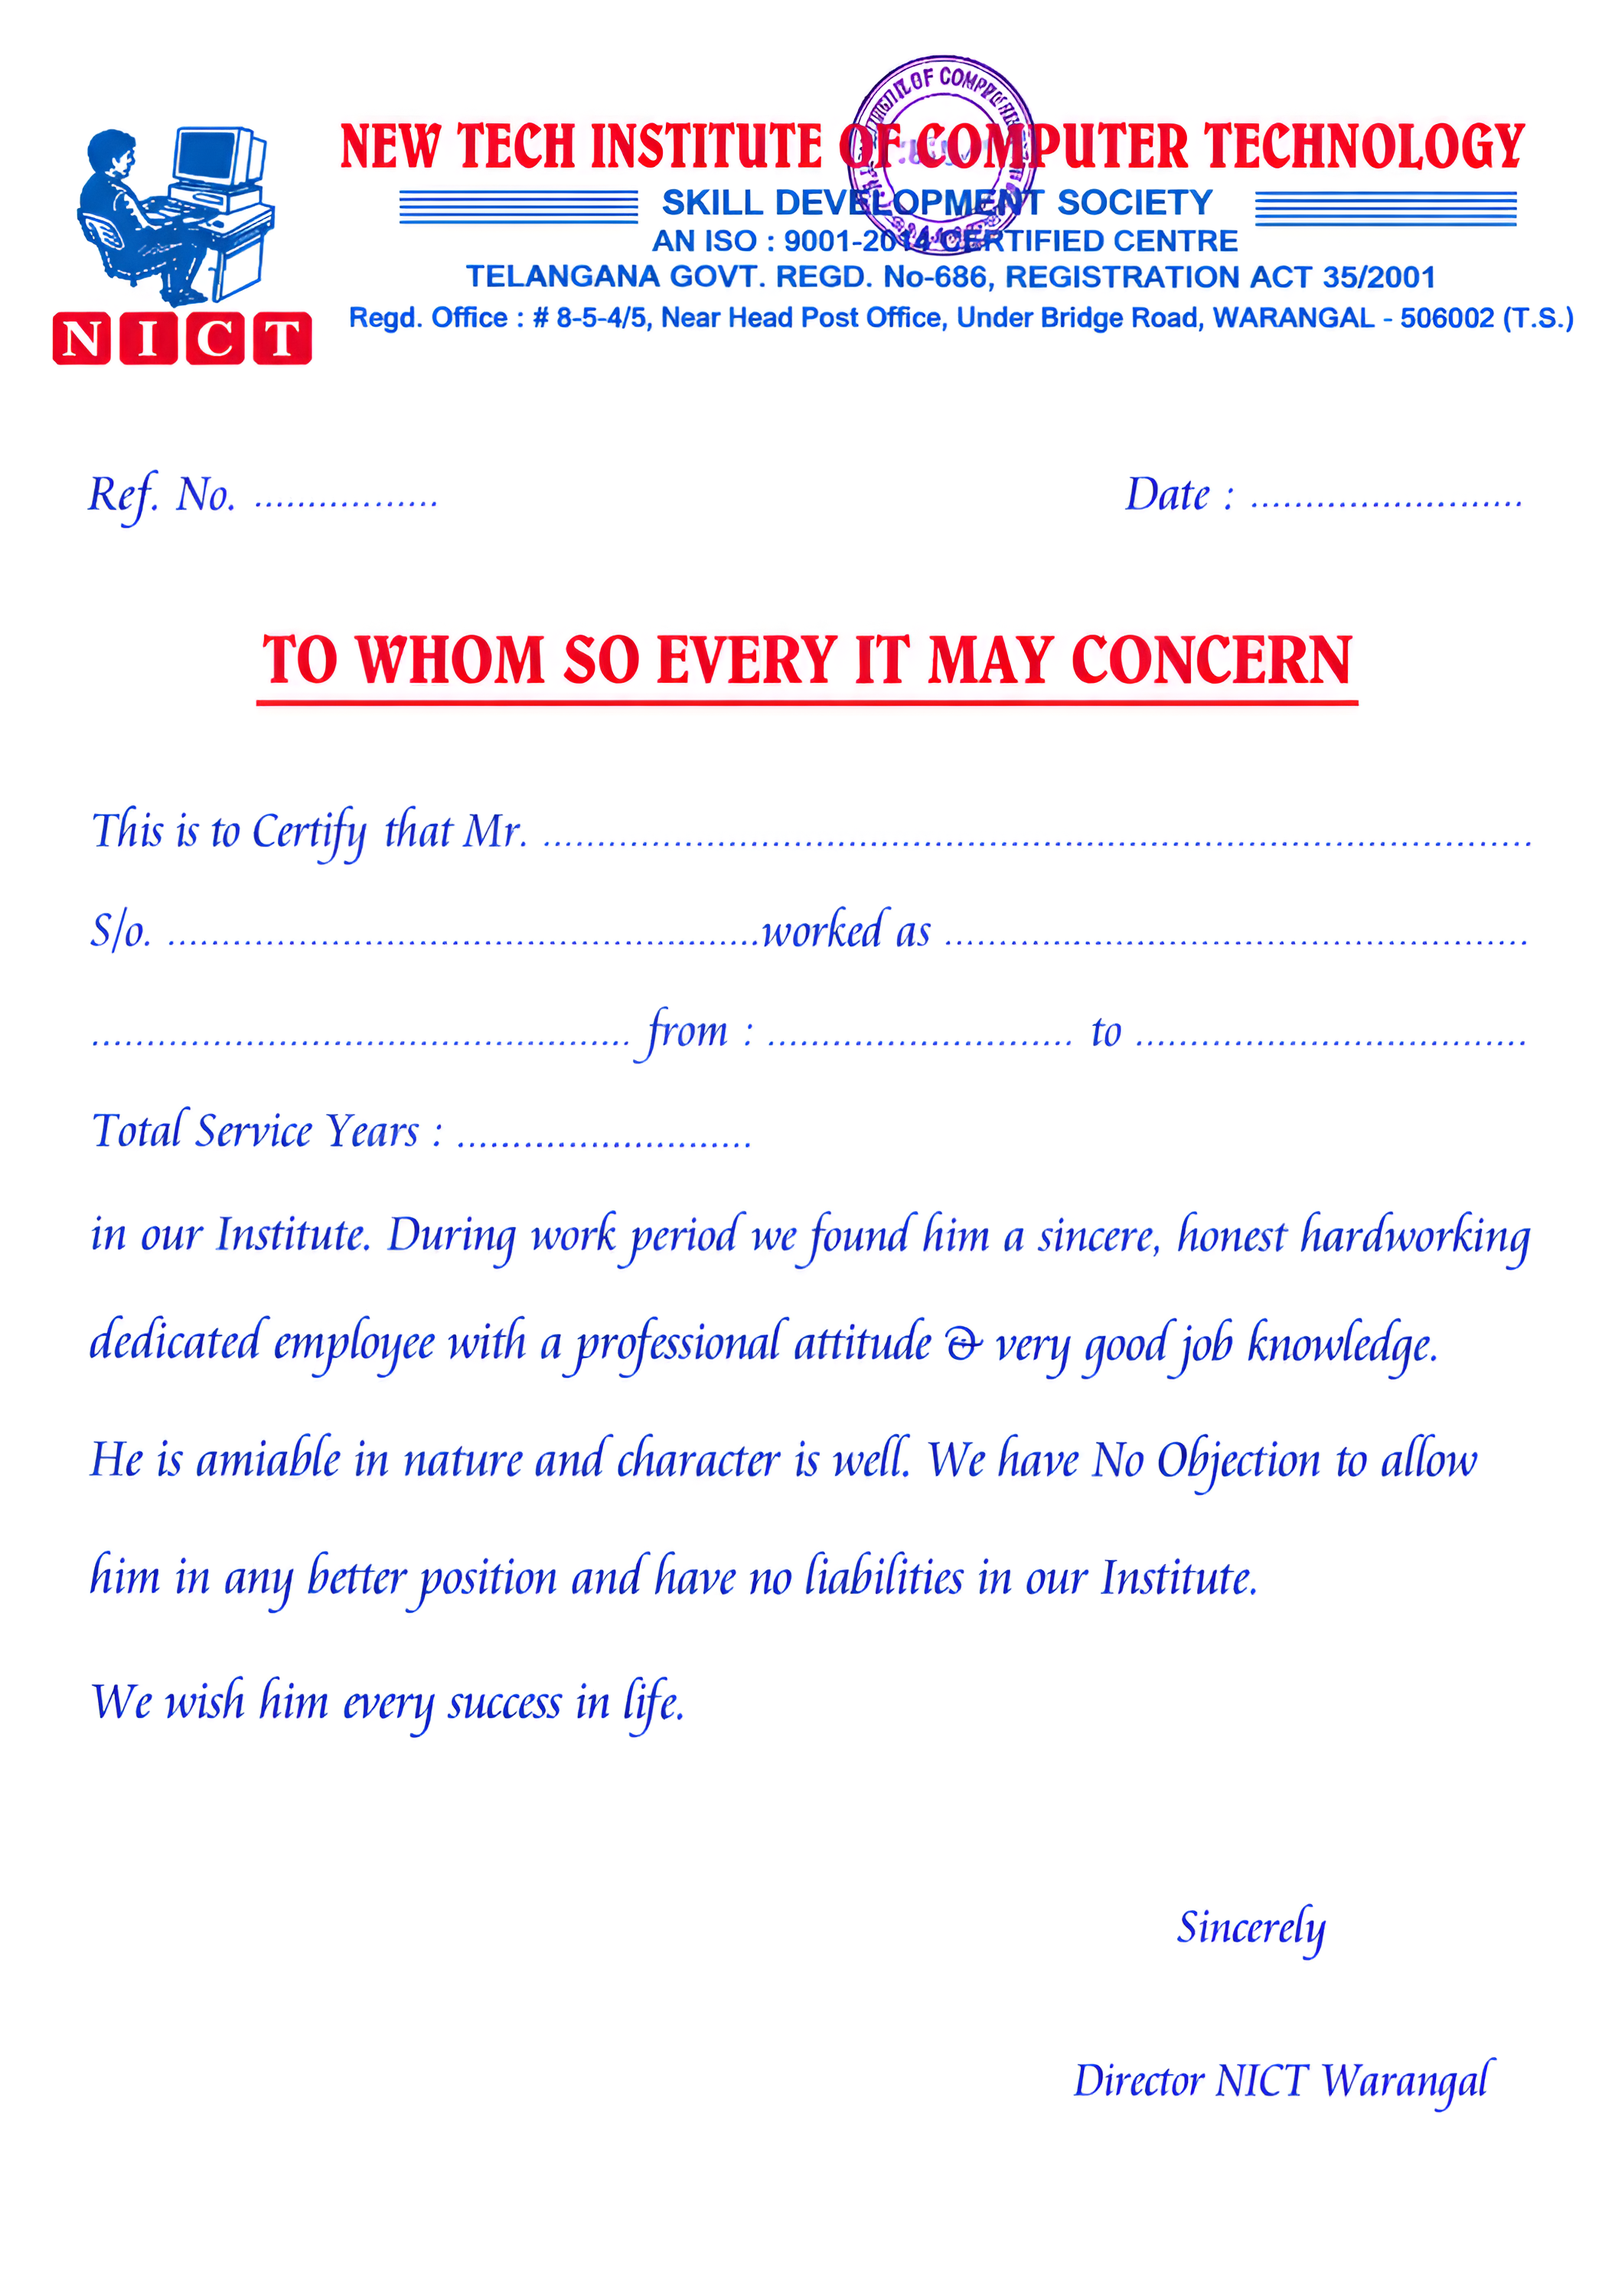
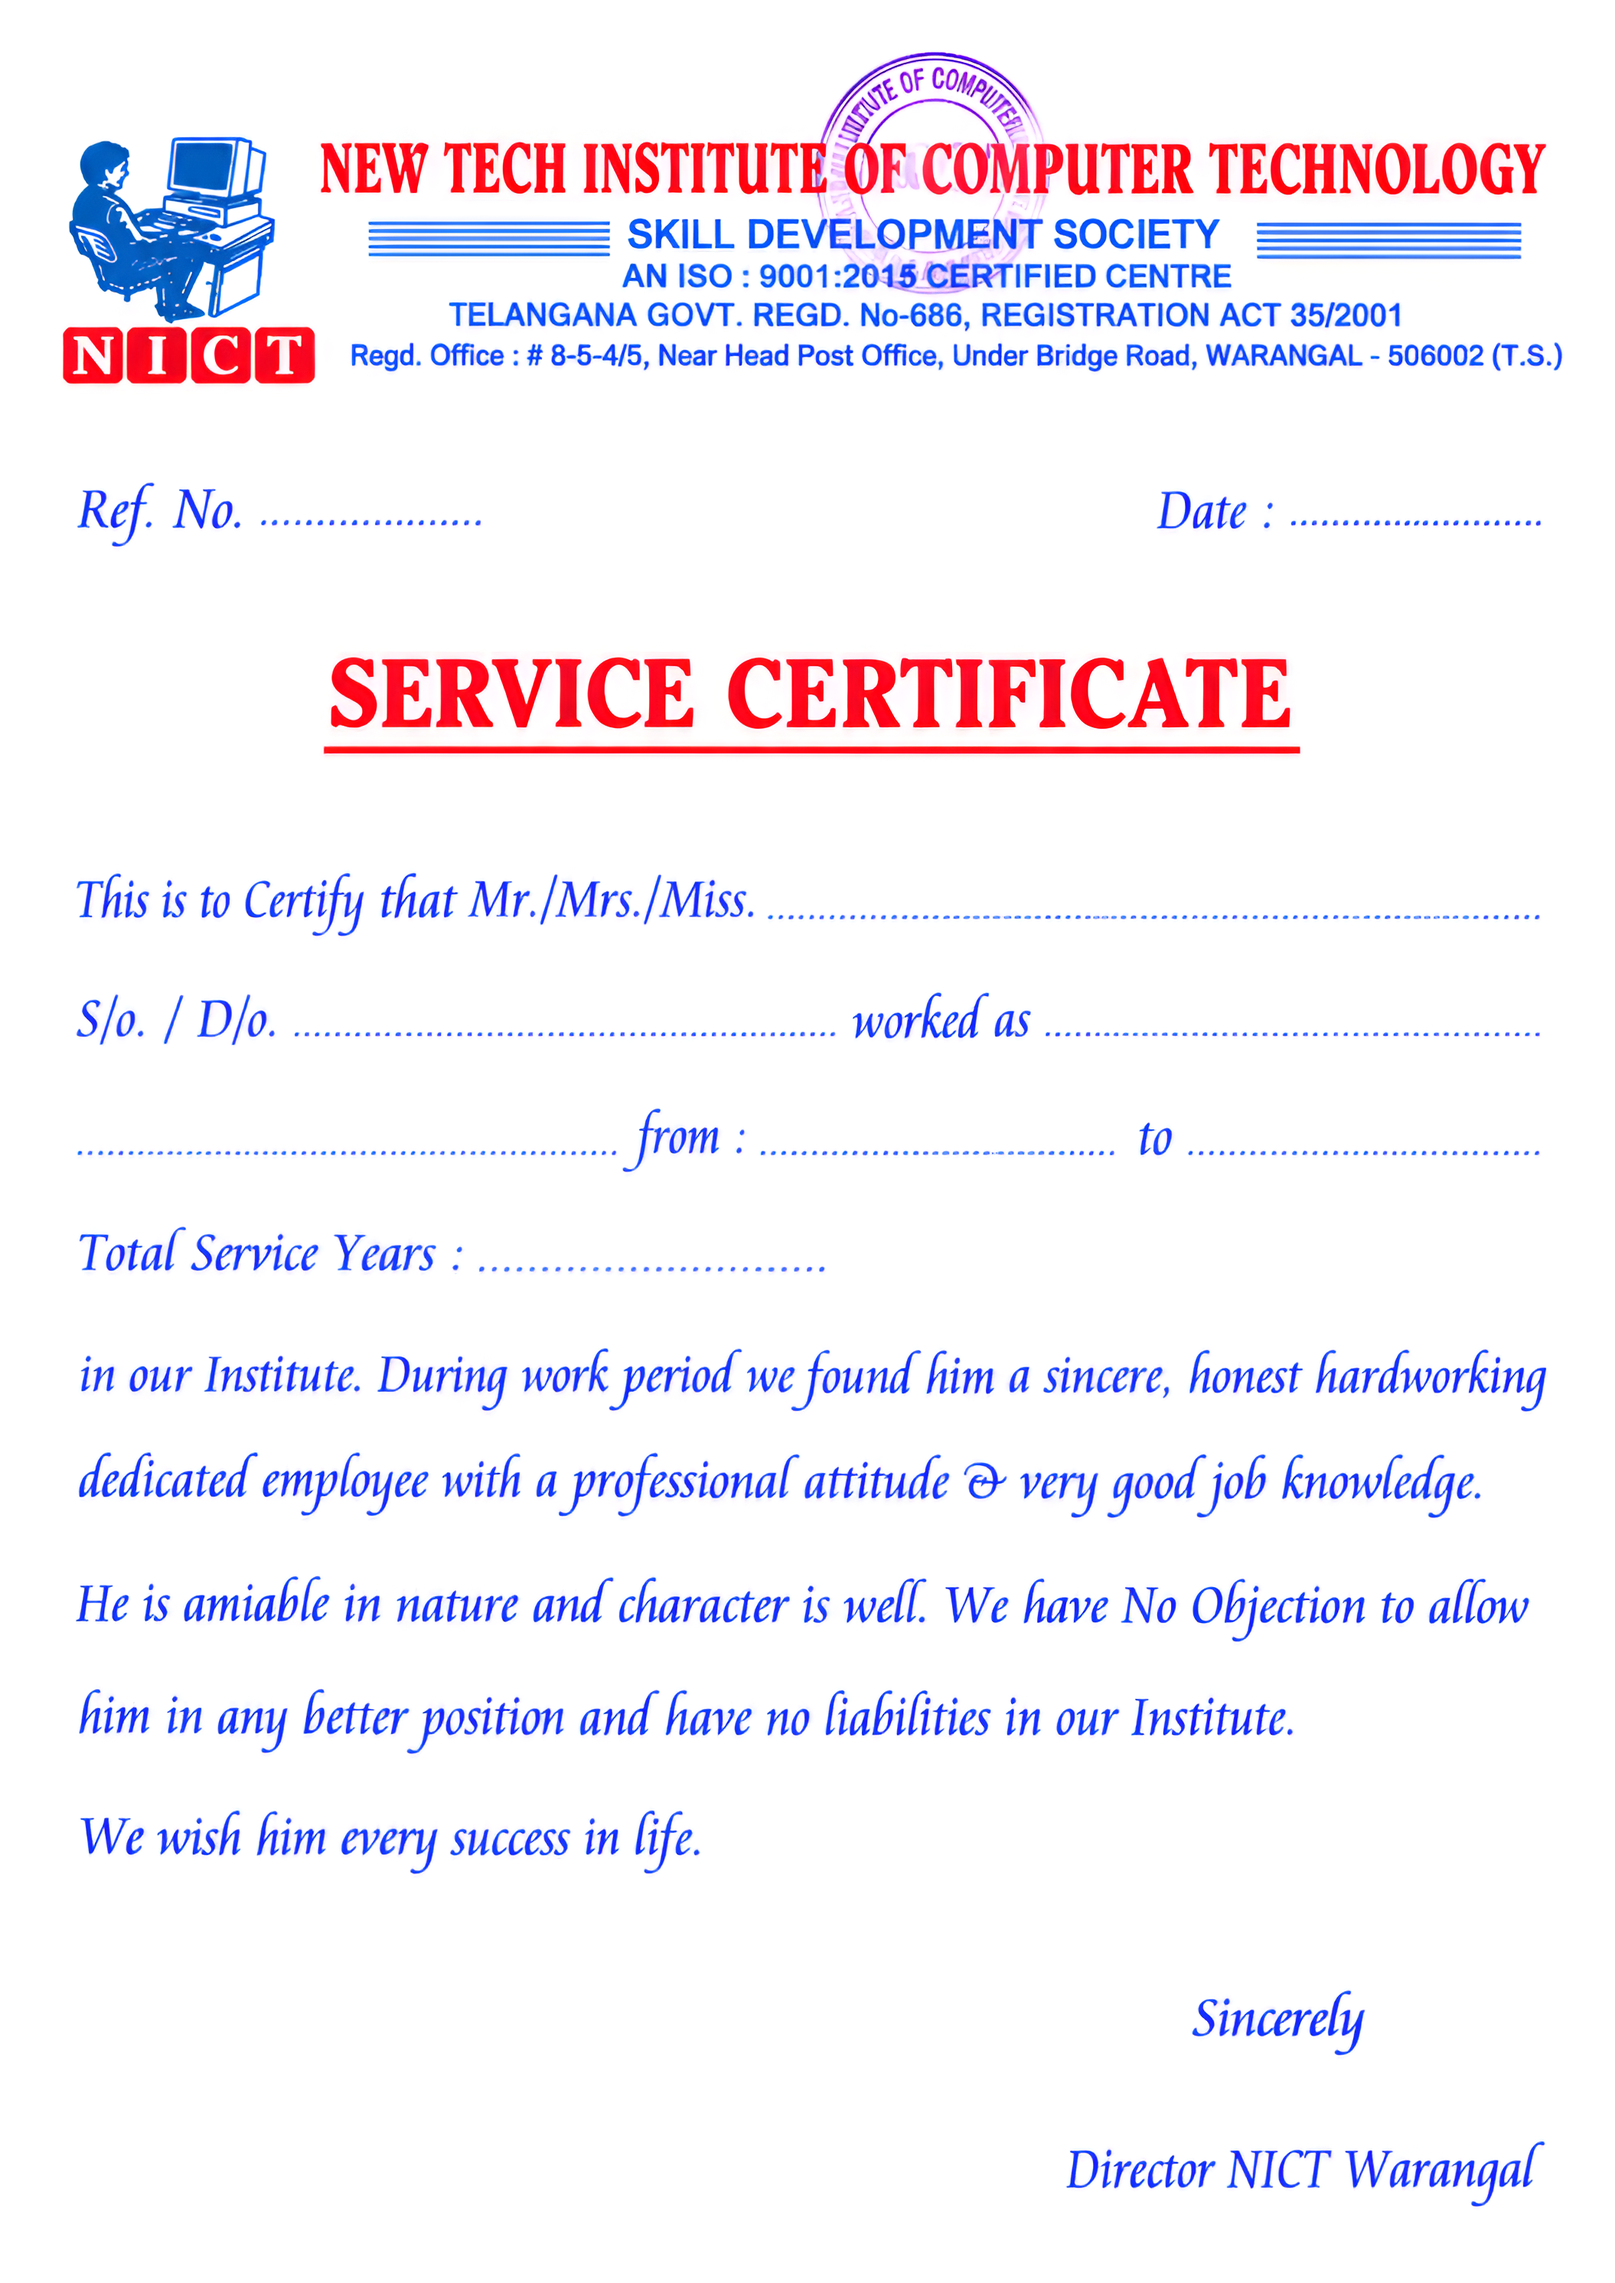
fix: update service certificate template coordinates in admin form and verify page

diff --git a/src/components/admin/AdminServiceCertForm.tsx b/src/components/admin/AdminServiceCertForm.tsx
@@ -129,27 +129,22 @@ export function AdminServiceCertForm() {
       pdf.setFont('times', 'bold');
       pdf.setTextColor(220, 38, 38); // Red
       pdf.setFontSize(16);
-      
-      const bOff16 = 26; // Increased from 14 to push text down to dotted line
-      pdf.text(refNo, 127, 224 + bOff16 - 3); // shifted up 3px
-      pdf.text(date, 610, 224 + bOff16 - 3); // shifted up 3px
+      pdf.text(refNo, 127, 262);    // Ref No after the dots
+      pdf.text(date, 580, 262);     // Date after the dots
 
       // Content fields (blue italic)
       pdf.setFont('times', 'italic');
       pdf.setTextColor(37, 99, 235); // Blue
       pdf.setFontSize(22);
-      
-      const bOff22 = 33; // Increased from 18 to push text down
-      pdf.text(studentName, 265, 380 + bOff22, { maxWidth: 450 }); // shifted left 15px
-      pdf.text(fatherName, 170, 435 + bOff22 - 5, { maxWidth: 500 }); // shifted left 40px, up 5px
-      pdf.text(role, 465, 435 + bOff22 - 5, { maxWidth: 450 }); // shifted left 5px, up 5px
-      pdf.text(workType, 90, 485 + bOff22 - 5, { maxWidth: 500 }); // shifted left 20px, up 5px
-      
+      pdf.text(studentName, 330, 425, { maxWidth: 430 }); // Name after "Mr./Mrs./Miss."
+      pdf.text(fatherName, 120, 480, { maxWidth: 300 });  // After S/o D/o
+      pdf.text(role, 490, 480, { maxWidth: 260 });         // After "worked as"
+      pdf.text(workType, 60, 538, { maxWidth: 300 });      // Work type (line 3 start)
+
       pdf.setFontSize(18);
-      const bOff18 = 27; // Increased from 15 to push text down
-      pdf.text(fromDate, 385, 490 + bOff18 - 5, { maxWidth: 150 }); // shifted up 5px
-      pdf.text(toDate, 562, 490 + bOff18 - 5, { maxWidth: 150 }); // shifted up 5px
-      pdf.text(serviceYears, 300, 530 + bOff18 - 4, { maxWidth: 300 }); // shifted up 4px
+      pdf.text(fromDate, 382, 543, { maxWidth: 160 });     // After "from :"
+      pdf.text(toDate, 570, 543, { maxWidth: 160 });        // After "to"
+      pdf.text(serviceYears, 215, 605, { maxWidth: 280 }); // After "Total Service Years :"
 
       pdf.save(`${studentName || 'Student'}_Service_Certificate.pdf`);
     } catch (error) {
@@ -237,19 +232,24 @@ export function AdminServiceCertForm() {
             <div ref={printRef} className="relative w-full h-full bg-white text-black font-serif" style={{ width: '794px', height: '1123px' }}>
               <img src={serviceTemplate} alt="Service Certificate Template" className="absolute inset-0 w-full h-full object-cover z-0" />
               
-              {/* Absolute positioning based on portrait certificate layout */}
-              <div className="absolute z-10 top-[224px] left-[127px] text-[16px] font-bold text-red-600 uppercase">{refNo}</div>
-              <div className="absolute z-10 top-[224px] left-[610px] text-[16px] font-bold text-red-600 uppercase">{date}</div>
-              
-              <div className="absolute z-10 top-[380px] left-[280px] text-[22px] font-bold italic text-blue-600 uppercase w-[450px]">{studentName}</div>
-              <div className="absolute z-10 top-[435px] left-[210px] text-[22px] font-bold italic text-blue-600 uppercase w-[500px]">{fatherName}</div>
-              <div className="absolute z-10 top-[435px] left-[470px] text-[22px] font-bold italic text-blue-600 uppercase w-[450px]">{role}</div>
-              <div className="absolute z-10 top-[485px] left-[110px] text-[22px] font-bold italic text-blue-600 uppercase w-[500px]">{workType}</div>
-              
-              <div className="absolute z-10 top-[490px] left-[385px] text-[18px] font-bold italic text-blue-600 uppercase w-[150px]">{fromDate}</div>
-              <div className="absolute z-10 top-[490px] left-[562px] text-[18px] font-bold italic text-blue-600 uppercase w-[150px]">{toDate}</div>
-              
-              <div className="absolute z-10 top-[530px] left-[300px] text-[18px] font-bold italic text-blue-600 uppercase w-[300px]">{serviceYears}</div>
+              {/* Ref No and Date row */}
+              <div className="absolute z-10 top-[249px] left-[127px] text-[16px] font-bold text-red-600 uppercase">{refNo}</div>
+              <div className="absolute z-10 top-[249px] left-[580px] text-[16px] font-bold text-red-600 uppercase">{date}</div>
+
+              {/* Name - after "This is to Certify that Mr./Mrs./Miss." */}
+              <div className="absolute z-10 top-[410px] left-[330px] text-[22px] font-bold italic text-blue-600 uppercase w-[430px]">{studentName}</div>
+
+              {/* Father / Role row */}
+              <div className="absolute z-10 top-[466px] left-[120px] text-[22px] font-bold italic text-blue-600 uppercase w-[300px]">{fatherName}</div>
+              <div className="absolute z-10 top-[466px] left-[490px] text-[22px] font-bold italic text-blue-600 uppercase w-[260px]">{role}</div>
+
+              {/* Work type + from/to dates row */}
+              <div className="absolute z-10 top-[524px] left-[60px] text-[22px] font-bold italic text-blue-600 uppercase w-[300px]">{workType}</div>
+              <div className="absolute z-10 top-[530px] left-[382px] text-[18px] font-bold italic text-blue-600 uppercase w-[160px]">{fromDate}</div>
+              <div className="absolute z-10 top-[530px] left-[570px] text-[18px] font-bold italic text-blue-600 uppercase w-[160px]">{toDate}</div>
+
+              {/* Total Service Years */}
+              <div className="absolute z-10 top-[590px] left-[215px] text-[18px] font-bold italic text-blue-600 uppercase w-[280px]">{serviceYears}</div>
             </div>
           </div>
         </div>

diff --git a/src/pages/Verify.tsx b/src/pages/Verify.tsx
@@ -132,19 +132,28 @@ async function generateServicePDF(data: ServiceRecord) {
   canvas.width = img.width; canvas.height = img.height;
   const ctx = canvas.getContext('2d')!; ctx.drawImage(img, 0, 0);
   pdf.addImage(canvas.toDataURL('image/png'), 'PNG', 0, 0, 794, 1123);
-  pdf.setFont('times', 'bold'); pdf.setTextColor(220, 38, 38); pdf.setFontSize(16);
-  pdf.text(data.ref_no, 127, 224 + 26 - 3);
-  pdf.text(data.date || '', 610, 224 + 26 - 3);
-  pdf.setFont('times', 'italic'); pdf.setTextColor(37, 99, 235); pdf.setFontSize(22);
-  const bOff22 = 33;
-  pdf.text(data.name, 265, 380 + bOff22, { maxWidth: 450 });
-  pdf.text(data.father_name, 170, 435 + bOff22 - 5, { maxWidth: 500 });
-  pdf.text(data.role, 465, 435 + bOff22 - 5, { maxWidth: 450 });
-  pdf.text(data.work_type, 90, 485 + bOff22 - 5, { maxWidth: 500 });
+
+  // Heading fields (bold red)
+  pdf.setFont('times', 'bold');
+  pdf.setTextColor(220, 38, 38);
+  pdf.setFontSize(16);
+  pdf.text(data.ref_no, 127, 262);
+  pdf.text(data.date || '', 580, 262);
+
+  // Content fields (blue italic)
+  pdf.setFont('times', 'italic');
+  pdf.setTextColor(37, 99, 235);
+  pdf.setFontSize(22);
+  pdf.text(data.name, 330, 425, { maxWidth: 430 });
+  pdf.text(data.father_name, 120, 480, { maxWidth: 300 });
+  pdf.text(data.role, 490, 480, { maxWidth: 260 });
+  pdf.text(data.work_type, 60, 538, { maxWidth: 300 });
+
   pdf.setFontSize(18);
-  pdf.text(data.from_date, 385, 490 + 27 - 5, { maxWidth: 150 });
-  pdf.text(data.to_date, 562, 490 + 27 - 5, { maxWidth: 150 });
-  pdf.text(data.total_years || '', 300, 530 + 27 - 4, { maxWidth: 300 });
+  pdf.text(data.from_date, 382, 543, { maxWidth: 160 });
+  pdf.text(data.to_date, 570, 543, { maxWidth: 160 });
+  pdf.text(data.total_years || '', 215, 605, { maxWidth: 280 });
+
   pdf.save(`${data.name || 'Candidate'}_Service_Certificate.pdf`);
 }
 
@@ -202,21 +211,27 @@ function ServicePreview({ data }: { data: ServiceRecord }) {
   return (
     <div className="relative bg-white text-black font-serif" style={{ width: '794px', height: '1123px' }}>
       <img src={serviceTemplate} alt="Service Certificate Template" className="absolute inset-0 w-full h-full object-cover z-0" />
-      {/* Ref No and Date - red bold */}
-      <div className="absolute z-10 top-[224px] left-[127px] text-[16px] font-bold text-red-600 uppercase">{data.ref_no}</div>
-      <div className="absolute z-10 top-[224px] left-[610px] text-[16px] font-bold text-red-600 uppercase">{data.date}</div>
-      {/* Main fields - blue italic */}
-      <div className="absolute z-10 top-[380px] left-[280px] text-[22px] font-bold italic text-blue-600 uppercase w-[450px]">{data.name}</div>
-      <div className="absolute z-10 top-[435px] left-[210px] text-[22px] font-bold italic text-blue-600 uppercase w-[500px]">{data.father_name}</div>
-      <div className="absolute z-10 top-[435px] left-[470px] text-[22px] font-bold italic text-blue-600 uppercase w-[450px]">{data.role}</div>
-      <div className="absolute z-10 top-[485px] left-[110px] text-[22px] font-bold italic text-blue-600 uppercase w-[500px]">{data.work_type}</div>
-      <div className="absolute z-10 top-[490px] left-[385px] text-[18px] font-bold italic text-blue-600 uppercase w-[150px]">{data.from_date}</div>
-      <div className="absolute z-10 top-[490px] left-[562px] text-[18px] font-bold italic text-blue-600 uppercase w-[150px]">{data.to_date}</div>
-      {/* Total service years */}
-      <div className="absolute z-10 top-[530px] left-[300px] text-[18px] font-bold italic text-blue-600 uppercase w-[300px]">{data.total_years}</div>
+      {/* Ref No and Date row */}
+      <div className="absolute z-10 top-[249px] left-[127px] text-[16px] font-bold text-red-600 uppercase">{data.ref_no}</div>
+      <div className="absolute z-10 top-[249px] left-[580px] text-[16px] font-bold text-red-600 uppercase">{data.date}</div>
+
+      {/* Name - after "This is to Certify that Mr./Mrs./Miss." */}
+      <div className="absolute z-10 top-[410px] left-[330px] text-[22px] font-bold italic text-blue-600 uppercase w-[430px]">{data.name}</div>
+
+      {/* Father / Role row */}
+      <div className="absolute z-10 top-[466px] left-[120px] text-[22px] font-bold italic text-blue-600 uppercase w-[300px]">{data.father_name}</div>
+      <div className="absolute z-10 top-[466px] left-[490px] text-[22px] font-bold italic text-blue-600 uppercase w-[260px]">{data.role}</div>
+
+      {/* Work type + from/to dates row */}
+      <div className="absolute z-10 top-[524px] left-[60px] text-[22px] font-bold italic text-blue-600 uppercase w-[300px]">{data.work_type}</div>
+      <div className="absolute z-10 top-[530px] left-[382px] text-[18px] font-bold italic text-blue-600 uppercase w-[160px]">{data.from_date}</div>
+      <div className="absolute z-10 top-[530px] left-[570px] text-[18px] font-bold italic text-blue-600 uppercase w-[160px]">{data.to_date}</div>
+
+      {/* Total Service Years */}
+      <div className="absolute z-10 top-[590px] left-[215px] text-[18px] font-bold italic text-blue-600 uppercase w-[280px]">{data.total_years}</div>
     </div>
   );
-}
+}}
 
 // ── Category Card ─────────────────────────────────────────────────────────────
 
